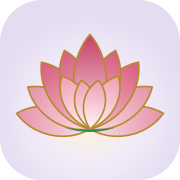
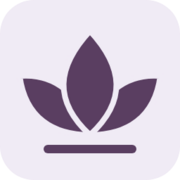
Give the library distinct covers and make membership easier to preview

diff --git a/library.html b/library.html
@@ -11,14 +11,15 @@
 <meta property="og:title" content="Divine Light">
 <meta property="og:description" content="Healing and Life Coaching">
 <meta property="og:url" content="https://divinelighthealing-lifecoach.com/library">
-<meta property="og:image" content="https://divinelighthealing-lifecoach.com/assets/og-image.jpg">
+<meta property="og:image" content="https://divinelighthealing-lifecoach.com/assets/divine-light-share.jpg">
 <meta property="og:image:width" content="1200">
 <meta property="og:image:height" content="630">
-<meta property="og:image:alt" content="Divine Light Healing and Life Coaching — lotus logo on soft lavender">
+<meta property="og:image:alt" content="Divine Light Reiki and life coaching beside the lotus emblem">
 <meta name="twitter:card" content="summary_large_image">
-<link rel="icon" href="/assets/favicon.svg" type="image/svg+xml">
-<link rel="icon" href="/favicon-32.png" sizes="32x32" type="image/png">
-<link rel="apple-touch-icon" href="/apple-touch-icon.png">
+<meta name="twitter:image" content="https://divinelighthealing-lifecoach.com/assets/divine-light-share.jpg">
+<link rel="icon" href="/assets/favicon.svg?v=lotus" type="image/svg+xml">
+<link rel="icon" href="/favicon-32.png?v=lotus" sizes="32x32" type="image/png">
+<link rel="apple-touch-icon" href="/apple-touch-icon.png?v=lotus">
 <meta name="theme-color" content="#F6F5F2">
 <link rel="preconnect" href="https://fonts.googleapis.com">
 <link rel="preconnect" href="https://fonts.gstatic.com" crossorigin>
@@ -93,8 +94,8 @@ img,svg{display:block;max-width:100%;}
 <section class="lib-hero">
   <div class="container">
     <span class="eyebrow">The Divine Light Library</span>
-    <h1>Meditations and healing practices for everyday calm</h1>
-    <p>Guided audio and gentle courses from Akhilesh. Listen when you need to slow down, reset, or come back to yourself, at home or on the go.</p>
+    <h1>A place to pause when life feels heavy</h1>
+    <p>Guided meditations and practices from Akhilesh. If you’re unsure where to begin, start with Relax.</p>
     <a class="lib-btn" href="/members">Member sign in</a>
   </div>
 </section>
@@ -136,35 +137,35 @@ img,svg{display:block;max-width:100%;}
       <span class="lib-card-desc">Slow your breath, release tension, and settle your mind.</span>
     </a>
     <div class="lib-card is-soon" data-cat="meditation">
-      <div class="lib-cover lib-cover--dawn" aria-hidden="true"><svg viewBox="0 0 64 48"><path d="M32 6c6 7 8 15 0 30C24 21 26 13 32 6z"/><path d="M32 36C25 30 14 26 6 26c3 9 14 14 26 10z"/><path d="M32 36c7-6 18-10 26-10-3 9-14 14-26 10z"/><path d="M10 43h44"/></svg></div>
+      <div class="lib-cover lib-cover--dawn" aria-hidden="true"></div>
       <span class="lib-card-type">Meditation</span>
       <span class="lib-card-title">Morning Light Intention</span>
       <span class="lib-card-desc">A short practice to begin the day grounded and clear.</span>
       <span class="lib-card-meta"><span class="lib-soon">Coming soon</span></span>
     </div>
     <div class="lib-card is-soon" data-cat="meditation">
-      <div class="lib-cover lib-cover--deep" aria-hidden="true"><svg viewBox="0 0 64 48"><path d="M32 6c6 7 8 15 0 30C24 21 26 13 32 6z"/><path d="M32 36C25 30 14 26 6 26c3 9 14 14 26 10z"/><path d="M32 36c7-6 18-10 26-10-3 9-14 14-26 10z"/><path d="M10 43h44"/></svg></div>
+      <div class="lib-cover lib-cover--deep" aria-hidden="true"></div>
       <span class="lib-card-type">Meditation</span>
       <span class="lib-card-title">Soften Into Sleep</span>
       <span class="lib-card-desc">Let go of the day and ease gently toward rest.</span>
       <span class="lib-card-meta"><span class="lib-soon">Coming soon</span></span>
     </div>
     <div class="lib-card is-soon" data-cat="course">
-      <div class="lib-cover lib-cover--mist" aria-hidden="true"><svg viewBox="0 0 64 48"><path d="M32 6c6 7 8 15 0 30C24 21 26 13 32 6z"/><path d="M32 36C25 30 14 26 6 26c3 9 14 14 26 10z"/><path d="M32 36c7-6 18-10 26-10-3 9-14 14-26 10z"/><path d="M10 43h44"/></svg></div>
+      <div class="lib-cover lib-cover--mist" aria-hidden="true"></div>
       <span class="lib-card-type">Course</span>
       <span class="lib-card-title">Chakra Balance Journey</span>
       <span class="lib-card-desc">Explore each energy center with guided practices and reflections.</span>
       <span class="lib-card-meta"><span class="lib-soon">Coming soon</span></span>
     </div>
     <div class="lib-card is-soon" data-cat="course">
-      <div class="lib-cover lib-cover--dusk" aria-hidden="true"><svg viewBox="0 0 64 48"><path d="M32 6c6 7 8 15 0 30C24 21 26 13 32 6z"/><path d="M32 36C25 30 14 26 6 26c3 9 14 14 26 10z"/><path d="M32 36c7-6 18-10 26-10-3 9-14 14-26 10z"/><path d="M10 43h44"/></svg></div>
+      <div class="lib-cover lib-cover--contour" aria-hidden="true"></div>
       <span class="lib-card-type">Course</span>
       <span class="lib-card-title">Calm for Anxious Days</span>
       <span class="lib-card-desc">Simple, repeatable tools for moments when anxiety rises.</span>
       <span class="lib-card-meta"><span class="lib-soon">Coming soon</span></span>
     </div>
     <div class="lib-card is-soon" data-cat="tool">
-      <div class="lib-cover lib-cover--dawn" aria-hidden="true"><svg viewBox="0 0 64 48"><path d="M32 6c6 7 8 15 0 30C24 21 26 13 32 6z"/><path d="M32 36C25 30 14 26 6 26c3 9 14 14 26 10z"/><path d="M32 36c7-6 18-10 26-10-3 9-14 14-26 10z"/><path d="M10 43h44"/></svg></div>
+      <div class="lib-cover lib-cover--release" aria-hidden="true"></div>
       <span class="lib-card-type">Healing tool</span>
       <span class="lib-card-title">Emotional Release Practice</span>
       <span class="lib-card-desc">A guided way to notice, name, and let go of what you've been carrying.</span>
@@ -173,12 +174,11 @@ img,svg{display:block;max-width:100%;}
   </div>
 </section>
 
-<section class="lib-cta">
-  <div class="container">
-    <h2>Want guidance made just for you?</h2>
-    <p>The library is a gentle place to start. For one-on-one Reiki, coaching, or support through a transition, book a free 15-minute call with Akhilesh.</p>
-    <a class="lib-btn" href="/contact#book">Book a free 15-min call</a>
-  </div>
+<section class="lib-reflection" aria-label="A reflection from Akhilesh">
+  <figure>
+    <blockquote>“What we receive from the Universe, it is our duty to pass on.”</blockquote>
+    <figcaption><a href="/journal">Akhilesh Dwivedi</a></figcaption>
+  </figure>
 </section>
 </main>
 

diff --git a/assets/library.css b/assets/library.css
@@ -39,16 +39,67 @@ a.lib-card:hover .lib-card-title{color:var(--rose-deep);}
 .lib-soon{display:inline-block;font-size:11px;letter-spacing:.06em;text-transform:uppercase;color:var(--sage-deep);background:var(--sage-tint);border:1px solid var(--line);padding:2px 9px;border-radius:10px;}
 .lib-card.is-soon .lib-cover{filter:saturate(.75);}
 
-/* Cover art: muted earth tones, a lotus line mark on top */
+/* Each practice has a distinct cover motif. */
 .lib-cover{position:relative;aspect-ratio:4/3;border-radius:12px;overflow:hidden;display:flex;align-items:center;justify-content:center;transition:transform .25s ease,box-shadow .25s ease;background:#625E51;}
-.lib-cover::after{content:"";position:absolute;inset:0;background:radial-gradient(circle at 30% 25%,rgba(255,255,255,.55),transparent 55%);}
+.lib-cover::before, .lib-cover::after {
+  content: "";
+  position: absolute;
+  pointer-events: none;
+}
 .lib-cover svg{position:relative;z-index:1;width:34%;height:auto;}
 .lib-cover svg path,.lib-cover svg circle{fill:none;stroke:#FFFFFF;stroke-width:2.2;stroke-linejoin:round;stroke-linecap:round;}
 .lib-cover-label{position:absolute;left:14px;bottom:12px;z-index:1;font-size:12px;font-weight:600;letter-spacing:.06em;color:#272824;background:rgba(255,255,255,.82);padding:3px 10px;border-radius:999px;}
-.lib-cover--dawn{background:#766344;}
-.lib-cover--dusk{background:#54574A;}
-.lib-cover--mist{background:#626B61;}
-.lib-cover--deep{background:#35362F;}
+.lib-cover--dusk { background: #54574A; }
+.lib-cover--dusk::before {
+  width: 58%; aspect-ratio: 1; border-radius: 50%;
+  border: 1px solid rgba(245,239,217,.32);
+}
+.lib-cover--dawn {
+  background: linear-gradient(to bottom, #A06D54 62%, #745040 62%);
+}
+.lib-cover--dawn::before {
+  width: 32%; aspect-ratio: 1; bottom: 38%;
+  background: #F3D6A2; clip-path: inset(0 0 50%); transform: translateY(50%);
+  border-radius: 50%;
+}
+.lib-cover--dawn::after { inset: 72% 14% auto; border-top: 1px solid #D8A78E; }
+
+.lib-cover--deep { background: #313B46; }
+.lib-cover--deep::before {
+  width: 28%; aspect-ratio: 1; border-radius: 50%;
+  box-shadow: -12px 8px 0 2px #EAE1C8;
+  transform: translate(12%, -12%);
+}
+.lib-cover--deep::after {
+  width: 3px; height: 3px; border-radius: 50%; background: #EAE1C8;
+  top: 27%; left: 69%; box-shadow: -85px -5px #B4B7B3, 18px 42px #B4B7B3;
+}
+.lib-cover--mist { background: #DCE1D5; }
+.lib-cover--mist::before {
+  width: 8%; height: 68%; border-radius: 999px;
+  background: linear-gradient(to bottom, #756777 0 14%, #647386 14% 28%, #52767B 28% 42%,
+    #64775D 42% 56%, #AA8B50 56% 70%, #A66B4C 70% 85%, #824F4A 85%);
+}
+.lib-cover--mist::after { width: 42%; aspect-ratio: 1; border: 1px solid #839083; border-radius: 50%; }
+.lib-cover--contour { background: #DED6C5; }
+.lib-cover--contour::before {
+  width: 144%; height: 44%; top: 56%; left: -12%; border-radius: 50%;
+  border-top: 1px solid #747565; transform: rotate(-12deg);
+  box-shadow: 0 -12px 0 -1px #DED6C5, 0 -13px 0 -1px #747565,
+    0 -24px 0 -1px #DED6C5, 0 -25px 0 -1px #747565;
+}
+.lib-cover--release { background: #895D59; }
+.lib-cover--release::before, .lib-cover--release::after {
+  width: 43%; aspect-ratio: 1; border: 1px solid #F2D6BB; border-radius: 50%;
+}
+.lib-cover--release::before { transform: translateX(-20%); }
+.lib-cover--release::after { transform: translateX(20%); }
+
+.lib-reflection { padding: clamp(32px, 7vw, 72px) 20px; border-top: 1px solid var(--line); }
+.lib-reflection figure { max-width: 720px; margin: 0 auto; text-align: center; }
+.lib-reflection blockquote { margin: 0; font: italic 400 clamp(1.65rem, 4vw, 2.8rem)/1.18 var(--display-font); }
+.lib-reflection figcaption { margin-top: 12px; font-size: .9rem; }
+.lib-reflection a { display: inline-flex; align-items: center; min-height: 44px; text-decoration: underline; }
 
 .lib-btn{display:inline-flex;align-items:center;gap:10px;min-height:48px;padding:0 26px;border-radius:24px;background:var(--rose-deep);color:#fff;font-weight:600;font-size:15px;letter-spacing:.02em;border:0;cursor:pointer;font-family:inherit;}
 .lib-btn:hover{background:#282923;color:#fff;}

diff --git a/members.html b/members.html
@@ -6,9 +6,9 @@
 <meta name="robots" content="noindex">
 <meta name="referrer" content="no-referrer">
 <title>Member Library | Divine Light Healing &amp; Life Coaching</title>
-<link rel="icon" href="/assets/favicon.svg" type="image/svg+xml">
-<link rel="icon" href="/favicon-32.png" sizes="32x32" type="image/png">
-<link rel="apple-touch-icon" href="/apple-touch-icon.png">
+<link rel="icon" href="/assets/favicon.svg?v=lotus" type="image/svg+xml">
+<link rel="icon" href="/favicon-32.png?v=lotus" sizes="32x32" type="image/png">
+<link rel="apple-touch-icon" href="/apple-touch-icon.png?v=lotus">
 <meta name="theme-color" content="#F6F5F2">
 <link rel="preconnect" href="https://fonts.googleapis.com">
 <link rel="preconnect" href="https://fonts.gstatic.com" crossorigin>
@@ -92,7 +92,10 @@ img,svg{display:block;max-width:100%;}
 <label class="field" id="email-field"><span>Email address</span><input name="email" type="email" autocomplete="username" required></label>
 <button class="cta login-submit" id="auth-submit" disabled>Send sign-in link</button>
 </form>
-<p class="member-library-link"><a class="text-link" href="/library">Browse free meditations</a></p>
+<div class="member-library-link">
+  <a class="text-link" href="/library">Browse free meditations</a>
+  <a class="text-link" id="login-demo-link" href="/membership-test">Preview membership</a>
+</div>
 </div></div>
 </section>
 <section class="page" id="account" hidden>
@@ -101,6 +104,13 @@ img,svg{display:block;max-width:100%;}
 <div class="membership"><strong>$25 / month</strong><span>Stream every lesson and save your progress</span><button class="cta" id="billing" type="button">Join membership</button></div>
 <div class="membership" id="library-offer" hidden><strong>$100 one time</strong><span>Download the whole library to keep</span><button class="cta" id="buy-library" type="button">Buy the library</button></div>
 </div></div>
+<aside class="member-preview" id="member-preview" aria-labelledby="member-preview-title" hidden>
+  <img src="/assets/member-woodland-path.webp" alt="" width="1200" height="640" loading="lazy">
+  <div class="member-preview-copy">
+    <h2 id="member-preview-title">Start where you are.</h2>
+    <a class="text-link" href="/membership-test">Preview the member library</a>
+  </div>
+</aside>
 <section class="downloads" id="downloads" hidden aria-labelledby="downloads-title">
 <h2 id="downloads-title">Your library downloads</h2>
 <p>Thank you for your purchase. These recordings are yours to keep.</p>

diff --git a/index.html b/index.html
@@ -9,16 +9,17 @@
 <meta property="og:type" content="website">
 <meta property="og:site_name" content="Divine Light">
 <meta property="og:title" content="Divine Light">
-<meta property="og:description" content="Healing and Life Coaching">
+<meta property="og:description" content="Reiki and life coaching with Akhilesh Dwivedi, in person or online.">
 <meta property="og:url" content="https://divinelighthealing-lifecoach.com/">
-<meta property="og:image" content="https://divinelighthealing-lifecoach.com/assets/og-image.jpg">
+<meta property="og:image" content="https://divinelighthealing-lifecoach.com/assets/divine-light-share.jpg">
 <meta property="og:image:width" content="1200">
 <meta property="og:image:height" content="630">
-<meta property="og:image:alt" content="Divine Light Healing and Life Coaching — lotus logo on soft lavender">
+<meta property="og:image:alt" content="Divine Light Reiki and life coaching beside the lotus emblem">
 <meta name="twitter:card" content="summary_large_image">
-<link rel="icon" href="/assets/favicon.svg" type="image/svg+xml">
-<link rel="icon" href="/favicon-32.png" sizes="32x32" type="image/png">
-<link rel="apple-touch-icon" href="/apple-touch-icon.png">
+<meta name="twitter:image" content="https://divinelighthealing-lifecoach.com/assets/divine-light-share.jpg">
+<link rel="icon" href="/assets/favicon.svg?v=lotus" type="image/svg+xml">
+<link rel="icon" href="/favicon-32.png?v=lotus" sizes="32x32" type="image/png">
+<link rel="apple-touch-icon" href="/apple-touch-icon.png?v=lotus">
 <meta name="theme-color" content="#F6F5F2">
 <link rel="preconnect" href="https://fonts.googleapis.com">
 <link rel="preconnect" href="https://fonts.gstatic.com" crossorigin>

diff --git a/journal.html b/journal.html
@@ -11,14 +11,15 @@
 <meta property="og:title" content="Journal | Divine Light">
 <meta property="og:description" content="Stories and reflections by Akhilesh Dwivedi.">
 <meta property="og:url" content="https://divinelighthealing-lifecoach.com/journal">
-<meta property="og:image" content="https://divinelighthealing-lifecoach.com/assets/og-image.jpg">
+<meta property="og:image" content="https://divinelighthealing-lifecoach.com/assets/divine-light-share.jpg">
 <meta property="og:image:width" content="1200">
 <meta property="og:image:height" content="630">
-<meta property="og:image:alt" content="Divine Light Healing and Life Coaching — lotus logo on soft lavender">
+<meta property="og:image:alt" content="Divine Light Reiki and life coaching beside the lotus emblem">
 <meta name="twitter:card" content="summary_large_image">
-<link rel="icon" href="/assets/favicon.svg" type="image/svg+xml">
-<link rel="icon" href="/favicon-32.png" sizes="32x32" type="image/png">
-<link rel="apple-touch-icon" href="/apple-touch-icon.png">
+<meta name="twitter:image" content="https://divinelighthealing-lifecoach.com/assets/divine-light-share.jpg">
+<link rel="icon" href="/assets/favicon.svg?v=lotus" type="image/svg+xml">
+<link rel="icon" href="/favicon-32.png?v=lotus" sizes="32x32" type="image/png">
+<link rel="apple-touch-icon" href="/apple-touch-icon.png?v=lotus">
 <meta name="theme-color" content="#F6F5F2">
 <link rel="preconnect" href="https://fonts.googleapis.com">
 <link rel="preconnect" href="https://fonts.gstatic.com" crossorigin>

diff --git a/subconscious-programming.html b/subconscious-programming.html
@@ -11,14 +11,15 @@
 <meta property="og:title" content="Divine Light">
 <meta property="og:description" content="Healing and Life Coaching">
 <meta property="og:url" content="https://divinelighthealing-lifecoach.com/subconscious-programming">
-<meta property="og:image" content="https://divinelighthealing-lifecoach.com/assets/og-image.jpg">
+<meta property="og:image" content="https://divinelighthealing-lifecoach.com/assets/divine-light-share.jpg">
 <meta property="og:image:width" content="1200">
 <meta property="og:image:height" content="630">
-<meta property="og:image:alt" content="Divine Light Healing and Life Coaching — lotus logo on soft lavender">
+<meta property="og:image:alt" content="Divine Light Reiki and life coaching beside the lotus emblem">
 <meta name="twitter:card" content="summary_large_image">
-<link rel="icon" href="/assets/favicon.svg" type="image/svg+xml">
-<link rel="icon" href="/favicon-32.png" sizes="32x32" type="image/png">
-<link rel="apple-touch-icon" href="/apple-touch-icon.png">
+<meta name="twitter:image" content="https://divinelighthealing-lifecoach.com/assets/divine-light-share.jpg">
+<link rel="icon" href="/assets/favicon.svg?v=lotus" type="image/svg+xml">
+<link rel="icon" href="/favicon-32.png?v=lotus" sizes="32x32" type="image/png">
+<link rel="apple-touch-icon" href="/apple-touch-icon.png?v=lotus">
 <meta name="theme-color" content="#F6F5F2">
 <link rel="preconnect" href="https://fonts.googleapis.com">
 <link rel="preconnect" href="https://fonts.gstatic.com" crossorigin>

diff --git a/listening-service.html b/listening-service.html
@@ -11,14 +11,15 @@
 <meta property="og:title" content="Divine Light">
 <meta property="og:description" content="Healing and Life Coaching">
 <meta property="og:url" content="https://divinelighthealing-lifecoach.com/listening-service">
-<meta property="og:image" content="https://divinelighthealing-lifecoach.com/assets/og-image.jpg">
+<meta property="og:image" content="https://divinelighthealing-lifecoach.com/assets/divine-light-share.jpg">
 <meta property="og:image:width" content="1200">
 <meta property="og:image:height" content="630">
-<meta property="og:image:alt" content="Divine Light Healing and Life Coaching — lotus logo on soft lavender">
+<meta property="og:image:alt" content="Divine Light Reiki and life coaching beside the lotus emblem">
 <meta name="twitter:card" content="summary_large_image">
-<link rel="icon" href="/assets/favicon.svg" type="image/svg+xml">
-<link rel="icon" href="/favicon-32.png" sizes="32x32" type="image/png">
-<link rel="apple-touch-icon" href="/apple-touch-icon.png">
+<meta name="twitter:image" content="https://divinelighthealing-lifecoach.com/assets/divine-light-share.jpg">
+<link rel="icon" href="/assets/favicon.svg?v=lotus" type="image/svg+xml">
+<link rel="icon" href="/favicon-32.png?v=lotus" sizes="32x32" type="image/png">
+<link rel="apple-touch-icon" href="/apple-touch-icon.png?v=lotus">
 <meta name="theme-color" content="#F6F5F2">
 <link rel="preconnect" href="https://fonts.googleapis.com">
 <link rel="preconnect" href="https://fonts.gstatic.com" crossorigin>

diff --git a/anxiety-support.html b/anxiety-support.html
@@ -11,14 +11,15 @@
 <meta property="og:title" content="Divine Light">
 <meta property="og:description" content="Healing and Life Coaching">
 <meta property="og:url" content="https://divinelighthealing-lifecoach.com/anxiety-support">
-<meta property="og:image" content="https://divinelighthealing-lifecoach.com/assets/og-image.jpg">
+<meta property="og:image" content="https://divinelighthealing-lifecoach.com/assets/divine-light-share.jpg">
 <meta property="og:image:width" content="1200">
 <meta property="og:image:height" content="630">
-<meta property="og:image:alt" content="Divine Light Healing and Life Coaching — lotus logo on soft lavender">
+<meta property="og:image:alt" content="Divine Light Reiki and life coaching beside the lotus emblem">
 <meta name="twitter:card" content="summary_large_image">
-<link rel="icon" href="/assets/favicon.svg" type="image/svg+xml">
-<link rel="icon" href="/favicon-32.png" sizes="32x32" type="image/png">
-<link rel="apple-touch-icon" href="/apple-touch-icon.png">
+<meta name="twitter:image" content="https://divinelighthealing-lifecoach.com/assets/divine-light-share.jpg">
+<link rel="icon" href="/assets/favicon.svg?v=lotus" type="image/svg+xml">
+<link rel="icon" href="/favicon-32.png?v=lotus" sizes="32x32" type="image/png">
+<link rel="apple-touch-icon" href="/apple-touch-icon.png?v=lotus">
 <meta name="theme-color" content="#F6F5F2">
 <link rel="preconnect" href="https://fonts.googleapis.com">
 <link rel="preconnect" href="https://fonts.gstatic.com" crossorigin>

diff --git a/emotional-detox.html b/emotional-detox.html
@@ -11,14 +11,15 @@
 <meta property="og:title" content="Divine Light">
 <meta property="og:description" content="Healing and Life Coaching">
 <meta property="og:url" content="https://divinelighthealing-lifecoach.com/emotional-detox">
-<meta property="og:image" content="https://divinelighthealing-lifecoach.com/assets/og-image.jpg">
+<meta property="og:image" content="https://divinelighthealing-lifecoach.com/assets/divine-light-share.jpg">
 <meta property="og:image:width" content="1200">
 <meta property="og:image:height" content="630">
-<meta property="og:image:alt" content="Divine Light Healing and Life Coaching — lotus logo on soft lavender">
+<meta property="og:image:alt" content="Divine Light Reiki and life coaching beside the lotus emblem">
 <meta name="twitter:card" content="summary_large_image">
-<link rel="icon" href="/assets/favicon.svg" type="image/svg+xml">
-<link rel="icon" href="/favicon-32.png" sizes="32x32" type="image/png">
-<link rel="apple-touch-icon" href="/apple-touch-icon.png">
+<meta name="twitter:image" content="https://divinelighthealing-lifecoach.com/assets/divine-light-share.jpg">
+<link rel="icon" href="/assets/favicon.svg?v=lotus" type="image/svg+xml">
+<link rel="icon" href="/favicon-32.png?v=lotus" sizes="32x32" type="image/png">
+<link rel="apple-touch-icon" href="/apple-touch-icon.png?v=lotus">
 <meta name="theme-color" content="#F6F5F2">
 <link rel="preconnect" href="https://fonts.googleapis.com">
 <link rel="preconnect" href="https://fonts.gstatic.com" crossorigin>

diff --git a/chakra-healing.html b/chakra-healing.html
@@ -11,14 +11,15 @@
 <meta property="og:title" content="Divine Light">
 <meta property="og:description" content="Healing and Life Coaching">
 <meta property="og:url" content="https://divinelighthealing-lifecoach.com/chakra-healing">
-<meta property="og:image" content="https://divinelighthealing-lifecoach.com/assets/og-image.jpg">
+<meta property="og:image" content="https://divinelighthealing-lifecoach.com/assets/divine-light-share.jpg">
 <meta property="og:image:width" content="1200">
 <meta property="og:image:height" content="630">
-<meta property="og:image:alt" content="Divine Light Healing and Life Coaching — lotus logo on soft lavender">
+<meta property="og:image:alt" content="Divine Light Reiki and life coaching beside the lotus emblem">
 <meta name="twitter:card" content="summary_large_image">
-<link rel="icon" href="/assets/favicon.svg" type="image/svg+xml">
-<link rel="icon" href="/favicon-32.png" sizes="32x32" type="image/png">
-<link rel="apple-touch-icon" href="/apple-touch-icon.png">
+<meta name="twitter:image" content="https://divinelighthealing-lifecoach.com/assets/divine-light-share.jpg">
+<link rel="icon" href="/assets/favicon.svg?v=lotus" type="image/svg+xml">
+<link rel="icon" href="/favicon-32.png?v=lotus" sizes="32x32" type="image/png">
+<link rel="apple-touch-icon" href="/apple-touch-icon.png?v=lotus">
 <meta name="theme-color" content="#F6F5F2">
 <link rel="preconnect" href="https://fonts.googleapis.com">
 <link rel="preconnect" href="https://fonts.gstatic.com" crossorigin>

diff --git a/library-relax.html b/library-relax.html
@@ -11,14 +11,15 @@
 <meta property="og:title" content="Divine Light">
 <meta property="og:description" content="Healing and Life Coaching">
 <meta property="og:url" content="https://divinelighthealing-lifecoach.com/library-relax">
-<meta property="og:image" content="https://divinelighthealing-lifecoach.com/assets/og-image.jpg">
+<meta property="og:image" content="https://divinelighthealing-lifecoach.com/assets/divine-light-share.jpg">
 <meta property="og:image:width" content="1200">
 <meta property="og:image:height" content="630">
-<meta property="og:image:alt" content="Divine Light Healing and Life Coaching — lotus logo on soft lavender">
+<meta property="og:image:alt" content="Divine Light Reiki and life coaching beside the lotus emblem">
 <meta name="twitter:card" content="summary_large_image">
-<link rel="icon" href="/assets/favicon.svg" type="image/svg+xml">
-<link rel="icon" href="/favicon-32.png" sizes="32x32" type="image/png">
-<link rel="apple-touch-icon" href="/apple-touch-icon.png">
+<meta name="twitter:image" content="https://divinelighthealing-lifecoach.com/assets/divine-light-share.jpg">
+<link rel="icon" href="/assets/favicon.svg?v=lotus" type="image/svg+xml">
+<link rel="icon" href="/favicon-32.png?v=lotus" sizes="32x32" type="image/png">
+<link rel="apple-touch-icon" href="/apple-touch-icon.png?v=lotus">
 <meta name="theme-color" content="#F6F5F2">
 <link rel="preconnect" href="https://fonts.googleapis.com">
 <link rel="preconnect" href="https://fonts.gstatic.com" crossorigin>

diff --git a/life-coaching.html b/life-coaching.html
@@ -11,14 +11,15 @@
 <meta property="og:title" content="Divine Light">
 <meta property="og:description" content="Healing and Life Coaching">
 <meta property="og:url" content="https://divinelighthealing-lifecoach.com/life-coaching">
-<meta property="og:image" content="https://divinelighthealing-lifecoach.com/assets/og-image.jpg">
+<meta property="og:image" content="https://divinelighthealing-lifecoach.com/assets/divine-light-share.jpg">
 <meta property="og:image:width" content="1200">
 <meta property="og:image:height" content="630">
-<meta property="og:image:alt" content="Divine Light Healing and Life Coaching — lotus logo on soft lavender">
+<meta property="og:image:alt" content="Divine Light Reiki and life coaching beside the lotus emblem">
 <meta name="twitter:card" content="summary_large_image">
-<link rel="icon" href="/assets/favicon.svg" type="image/svg+xml">
-<link rel="icon" href="/favicon-32.png" sizes="32x32" type="image/png">
-<link rel="apple-touch-icon" href="/apple-touch-icon.png">
+<meta name="twitter:image" content="https://divinelighthealing-lifecoach.com/assets/divine-light-share.jpg">
+<link rel="icon" href="/assets/favicon.svg?v=lotus" type="image/svg+xml">
+<link rel="icon" href="/favicon-32.png?v=lotus" sizes="32x32" type="image/png">
+<link rel="apple-touch-icon" href="/apple-touch-icon.png?v=lotus">
 <meta name="theme-color" content="#F6F5F2">
 <link rel="preconnect" href="https://fonts.googleapis.com">
 <link rel="preconnect" href="https://fonts.gstatic.com" crossorigin>
